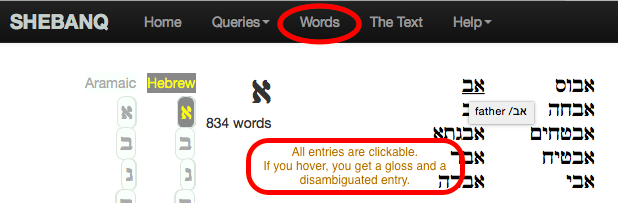
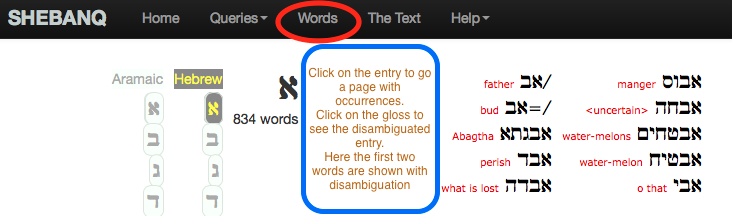
dictionary optimizations

Changed region(s): [[0.0, 0.0, 1.0, 1.0], [0.1845, 0.4729, 0.246, 1.0], [0.2767, 0.7685, 0.3382, 1.0]]

diff --git a/views/hebrew/dictionary.html b/views/hebrew/dictionary.html
@@ -8,7 +8,7 @@ this_language = 'Hebrew' if lan == 'hbo' else 'Aramaic'
 other_language = 'Hebrew' if other_lan == 'hbo' else 'Aramaic'
 gletter = unichr(int(letter))
 rows = 12
-cols = 6
+cols = 5
 tsize = rows * cols
 wsize = len(words)
 ntables = int(wsize / tsize) + (1 if wsize % tsize != 0 else 0)
@@ -52,7 +52,11 @@ for t in tables:
                 nc += 1
                 (word, id, wordid, gloss) = c
 }}
-        <td class="d">{{=A(word, _class='d', _title=u'{} {}'.format(wordid, gloss), _href=URL('hebrew', 'word', vars=dict(mr='r', qw='w', id=id)))}}</td>
+        <td class="d">
+            <a gi="{{=id}}" class="dgl" href="#">{{=gloss or '??'}}</a>
+            <a wi="{{=id}}" class="d" href="{{=URL('hebrew', 'word', vars=dict(mr='r', qw='w', id=id))}}">{{=word}}</a>
+            <a wii="{{=id}}" class="d" href="{{=URL('hebrew', 'word', vars=dict(mr='r', qw='w', id=id))}}">{{=wordid}}</a>
+        </td>
             {{pass}}
         {{pass}}
     </tr>
@@ -84,4 +88,13 @@ for t in tables:
 </td>
 </tr></table>
 {{ end }}
+
+<script type="text/javascript">
+$('[wii]').hide()
+$('[gi]').click(function() {
+    var i = $(this).attr('gi')
+    $('[wi="'+i+'"]').toggle()
+    $('[wii="'+i+'"]').toggle()
+})
+</script>
 

diff --git a/views/default/help.html b/views/default/help.html
@@ -197,9 +197,9 @@ chapters that contain results of this query.</p>
 <p>You can cite individual queries and words by means of an <i>url</i>:</p>
 <dl>
 <dt>query</dt>
-<dd><code>http://shebanq.ancient-data.org?mr=m&qw=q&iid=</code><i>id-of-query</i></dd>
+<dd><code>http://shebanq.ancient-data.org?mr=m&qw=q&id=</code><i>id-of-query</i></dd>
 <dt>word</dt>
-<dd><code>http://shebanq.ancient-data.org?mr=m&qw=w&iid=</code><i>id-of-word</i></dd>
+<dd><code>http://shebanq.ancient-data.org?mr=m&qw=w&id=</code><i>id-of-word</i></dd>
 </dl>
 <p><img src="{{=URL('static', 'images/help-cite.png')}}"/></p>
 <p>You can generate these links and more if you are on a page that describes an individual query or word. You find them at the bottom right of

diff --git a/static/js/share.js b/static/js/share.js
@@ -41,13 +41,13 @@ jQuery(function(){
         }
         else if (wb.mr == 'r') {
             if (wb.qw == 'q') {
-                var quote_url = view_url+'?mr=r&qw=q&iid='+wb.iid
+                var quote_url = view_url+'?mr=r&qw=q&id='+wb.iid
                 $('#clipquery').attr('lnk', quote_url)
                 $('#clipquery').show()
                 $('#clipword').hide()
             }
             else {
-                var quote_url = view_url+'?mr=r&qw=w&iid='+wb.iid
+                var quote_url = view_url+'?mr=r&qw=w&id='+wb.iid
                 $('#clipword').attr('lnk', quote_url)
                 $('#clipquery').hide()
                 $('#clipword').show()

diff --git a/static/css/hebrew.css b/static/css/hebrew.css
@@ -631,10 +631,13 @@ span.cl_typ, span.l_cl_typ {
 td.d {
     font-family: "Ezra SIL", "SBL Hebrew", sans-serif;
     text-align: right;
-    width: 100px;
+    width: 140px;
+    margin-bottom: 0pt;
+    margin-top: 0pt;
 }
 a.d {
     color: #000000;
+    text-align: right;
 }
 p.d {
     text-align: right;
@@ -659,7 +662,7 @@ p.d {
     font-family: "Ezra SIL", "SBL Hebrew", sans-serif;
     font-weight: bold;
 }
-span.dgl {
+.dgl {
     font-family: Verdana, Arial, sans-serif;
     font-size: x-small;
     color: #dd0000;

diff --git a/controllers/hebrew.py b/controllers/hebrew.py
@@ -46,13 +46,17 @@ from mql import mql
 
 RESULT_PAGE_SIZE = 20
 
+CACHING = True
+
 def from_cache(ckey, func, expire):
-    #print "CACHE ACCESS {}".format(ckey)
-    return cache.ram(ckey, lambda:cache.disk(ckey, func, time_expire=expire), time_expire=expire)
+    if CACHING:
+        result = cache.ram(ckey, lambda:cache.disk(ckey, func, time_expire=expire), time_expire=expire)
+    else:
+        result = func()
+    return result
 
 def text():
     session.forget(response)
-    #print "CACHE ACCESS books"
     (books, books_order) = from_cache('books', get_books, None)
 
     return dict(
@@ -64,7 +68,6 @@ def text():
     )
 
 def get_books(no_controller=True): # get book information: number of chapters per book
-    #print "RECOMPUTING books"
     ckey = 'books'
     books_data = passage_db.executesql('''
 select name, max(chapter_num) from chapter inner join book on chapter.book_id = book.id group by name order by book.id;
@@ -91,7 +94,6 @@ def material():
     )
 
 def material_c(mr, qw, bk, iid, ch, page, tp):
-    #print 'RECOMPUTING: verses_{}:{}_{}:{}'.format(mr, bk if mr=='m' else iid, ch if mr=='m' else page, tp)
     if mr == 'm':
         (book, chapter) = getpassage()
         material = Verses(passage_db, mr, chapter=chapter.id, tp=tp) if chapter != None else None
@@ -149,7 +151,6 @@ def material_c(mr, qw, bk, iid, ch, page, tp):
             )
     else:
         result = dict()
-    #print 'RECOMPUTED: verses_{}:{}_{}:{}'.format(mr, bk if mr=='m' else iid, ch if mr=='m' else page, tp)
     return response.render(result)
 
 def sidem():
@@ -164,7 +165,6 @@ def sidem():
     )
 
 def sidem_c(qw, bk, ch):
-    #print 'RECOMPUTING: items_{}:{}_{}'.format(qw, bk, ch)
     (book, chapter) = getpassage()
     if qw == 'q':
         monad_sets = get_monadsets_MySQL(chapter)
@@ -176,21 +176,20 @@ def sidem_c(qw, bk, ch):
         side_items=side_items,
         qw=qw,
     )
-    #print 'RECOMPUTED: items_{}:{}_{}'.format(qw, bk, ch)
     return response.render(result)
 
 def query():
     request.vars['mr'] = 'r'
     request.vars['qw'] = 'q'
     request.vars['tp'] = 'txt_p'
-    request.vars['iid'] = request.vars.id
+    request.vars['iid'] = request.vars.id or request.vars.iid
     return text()
 
 def word():
     request.vars['mr'] = 'r'
     request.vars['qw'] = 'w'
     request.vars['tp'] = 'txt_p'
-    request.vars['iid'] = request.vars.id
+    request.vars['iid'] = request.vars.id or request.vars.iid
     return text()
 
 def csv(data): # converts an data structure of rows and fields into a csv string, with proper quotations and escapes
@@ -238,7 +237,7 @@ order by
 
 def sideqm():
     session.forget(response)
-    iid = request.vars.iid
+    iid = request.vars.iid or request.vars.id
     return dict(load=LOAD('hebrew', 'sideq', extension='load',
         vars=dict(mr='r', qw='q', iid=iid),
         ajax=False, ajax_trap=True, target='querybody', 
@@ -247,7 +246,7 @@ def sideqm():
 
 def sidewm():
     session.forget(response)
-    iid = request.vars.iid
+    iid = request.vars.iid or request.vars.id
     return dict(load=LOAD('hebrew', 'sidew', extension='load',
         vars=dict(mr='r', qw='w', iid=iid),
         ajax=False, ajax_trap=True, target='wordbody', 
@@ -326,15 +325,6 @@ def my_queries():
                     _href=URL('hebrew', 'text', vars=dict(mr='r', qw='q', iid=row.id, page=1)),
                 ) 
             ),
-            #dict(
-            #    header='edit',
-            #    body=lambda row: A(
-            #        SPAN(_class='icon pen icon-pencil'),
-            #        SPAN('', _class='buttontext button', _title='Edit'),
-            #        _class='button btn',
-            #        _href=URL('hebrew', 'sideqe', vars=dict(mr='r', qw='q', iid=row.id)),
-            #    ),
-            #),
         ],
         showbuttontext=False,
         paginate=20,
@@ -572,7 +562,7 @@ def check_query_access_write(iid=get_iid()):
     if iid is not None and iid > 0:
         mql_record = db.queries[iid]
         if mql_record is None:
-            raise HTTP(404, "No write access. Object not found in database. iid=" + str(iid))
+            raise HTTP(404, "No write access. Object not found in database. id=" + str(iid))
         if mql_record.created_by != auth.user.id:
             authorized = False
 
@@ -586,7 +576,7 @@ def check_query_access_execute(iid=get_iid()):
     if iid is not None and iid > 0:
         mql_record = db.queries[iid]
         if mql_record is None:
-            raise HTTP(404, "No execute access. Object not found in database. iid=" + str(iid))
+            raise HTTP(404, "No execute access. Object not found in database. id=" + str(iid))
         if mql_record.created_by == auth.user.id:
             authorized = True
 
@@ -737,8 +727,6 @@ def handle_response_word(word_form):
 
 def store_monad_sets(iid, rows):
     db.executesql('DELETE FROM monadsets WHERE query_id=' + str(iid) + ';')
-    #print 'CACHE CLEAR: ^verses_q:{}_'.format(iid)
-    #print 'CACHE CLEAR: ^items_q:'
     # Here we clear stuff that will become invalid because of a (re)execution of a query
     # and the deleting of previous results and the storing of new results.
     ckeys = r'^verses_q:{}_'.format(iid)

diff --git a/models/menu.py b/models/menu.py
@@ -51,12 +51,12 @@ response.google_analytics_id = None
 
 response.menu = [
     (T('Home'), False, URL('default', 'index'), []),
+    (T('The Text'), False, URL('hebrew', 'text', vars=dict(mr='m')), []),
+    (T('Words'), False, URL('hebrew', 'dictionary'), []),
     ('Queries', False, '', (
         (T('My Queries'), False, URL('hebrew', 'my_queries'), []),
         (T('Public Queries'), False, URL('hebrew', 'public_queries'), []),
     )),
-    (T('Words'), False, URL('hebrew', 'dictionary'), []),
-    (T('The Text'), False, URL('hebrew', 'text', vars=dict(mr='m')), []),
     (T('Help'), False, '', (
         ('About', False, URL('default', 'about'), []),
         ('SHEBANQ user guide', False, URL('default', 'help'), []),
